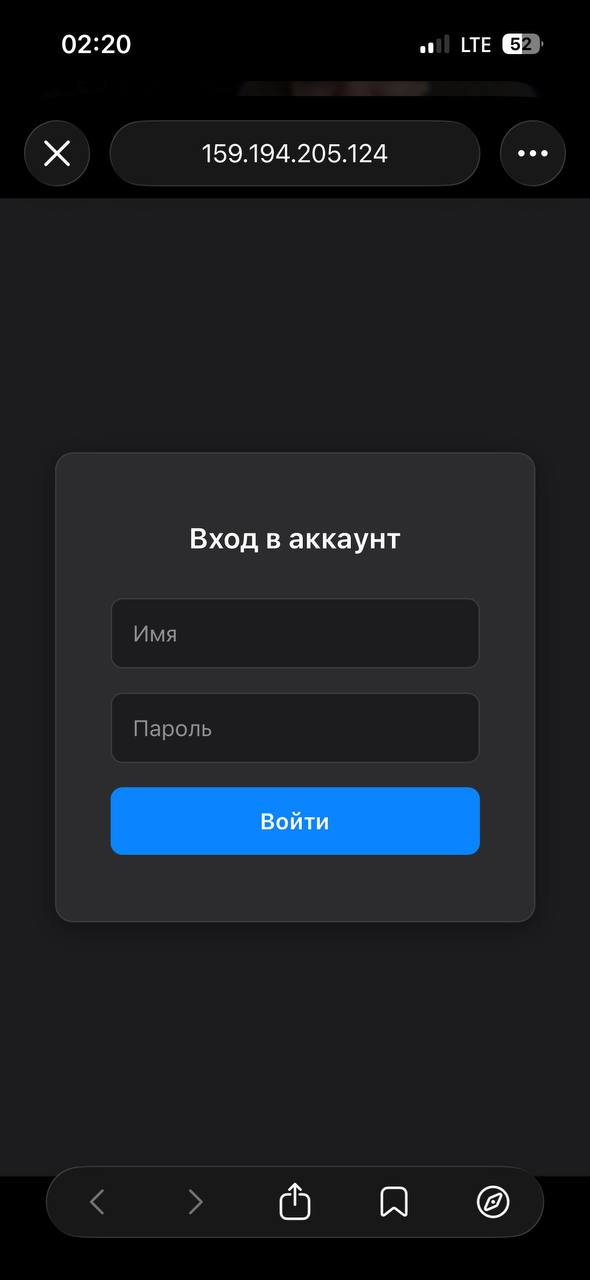
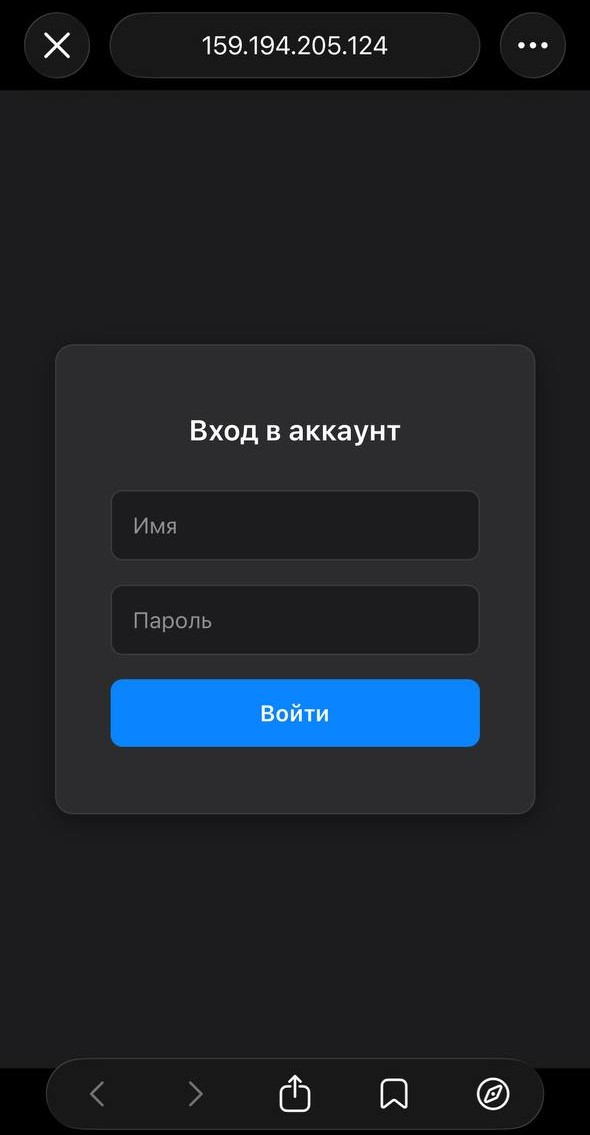
обновил README

diff --git a/MeterTrackerApi/obj/Debug/net10.0/MeterTrackerApi.AssemblyInfo.cs b/MeterTrackerApi/obj/Debug/net10.0/MeterTrackerApi.AssemblyInfo.cs
@@ -13,7 +13,7 @@ using System.Reflection;
 [assembly: System.Reflection.AssemblyCompanyAttribute("MeterTrackerApi")]
 [assembly: System.Reflection.AssemblyConfigurationAttribute("Debug")]
 [assembly: System.Reflection.AssemblyFileVersionAttribute("1.0.0.0")]
-[assembly: System.Reflection.AssemblyInformationalVersionAttribute("1.0.0+37676c1f50cae1352be27fca77acaff0fb2e1892")]
+[assembly: System.Reflection.AssemblyInformationalVersionAttribute("1.0.0+a803e681edb0e2a73687544b4fde1d0a03f7ea3e")]
 [assembly: System.Reflection.AssemblyProductAttribute("MeterTrackerApi")]
 [assembly: System.Reflection.AssemblyTitleAttribute("MeterTrackerApi")]
 [assembly: System.Reflection.AssemblyVersionAttribute("1.0.0.0")]

diff --git a/README.md b/README.md
@@ -6,11 +6,11 @@
 
 | Вход | Помещения | Подача показания |
 |---|---|---|
-| ![Вход](MeterTrackerApi/Screenshots/Login.jpg) | ![Мои помещения](MeterTrackerApi/Screenshots/Menu.jpg) | ![Показание](MeterTrackerApi/Screenshots/PM.jpg) |
+| ![Вход](MeterTrackerApi/Screenshots/login.jpg) | ![Мои помещения](MeterTrackerApi/Screenshots/menu.jpg) | ![Показание](MeterTrackerApi/Screenshots/pm.jpg) |
 
 **Admin-панель (компьютер)**
 
-![Таблица владельца](MeterTrackerApi/Screenshots/Success.png)
+![Таблица владельца](MeterTrackerApi/Screenshots/reading.png)
 
 ## Возможности
 
